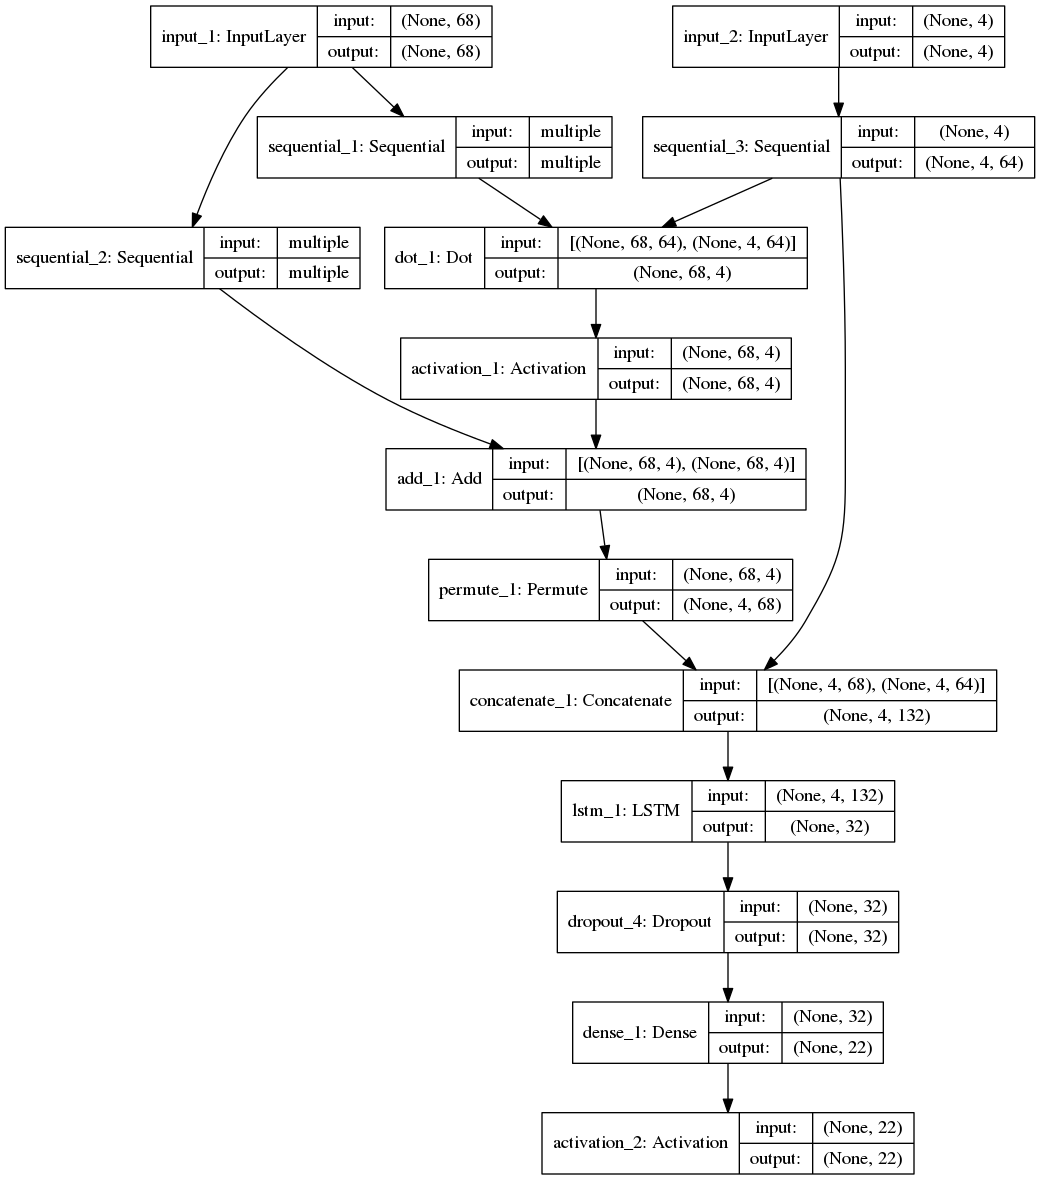
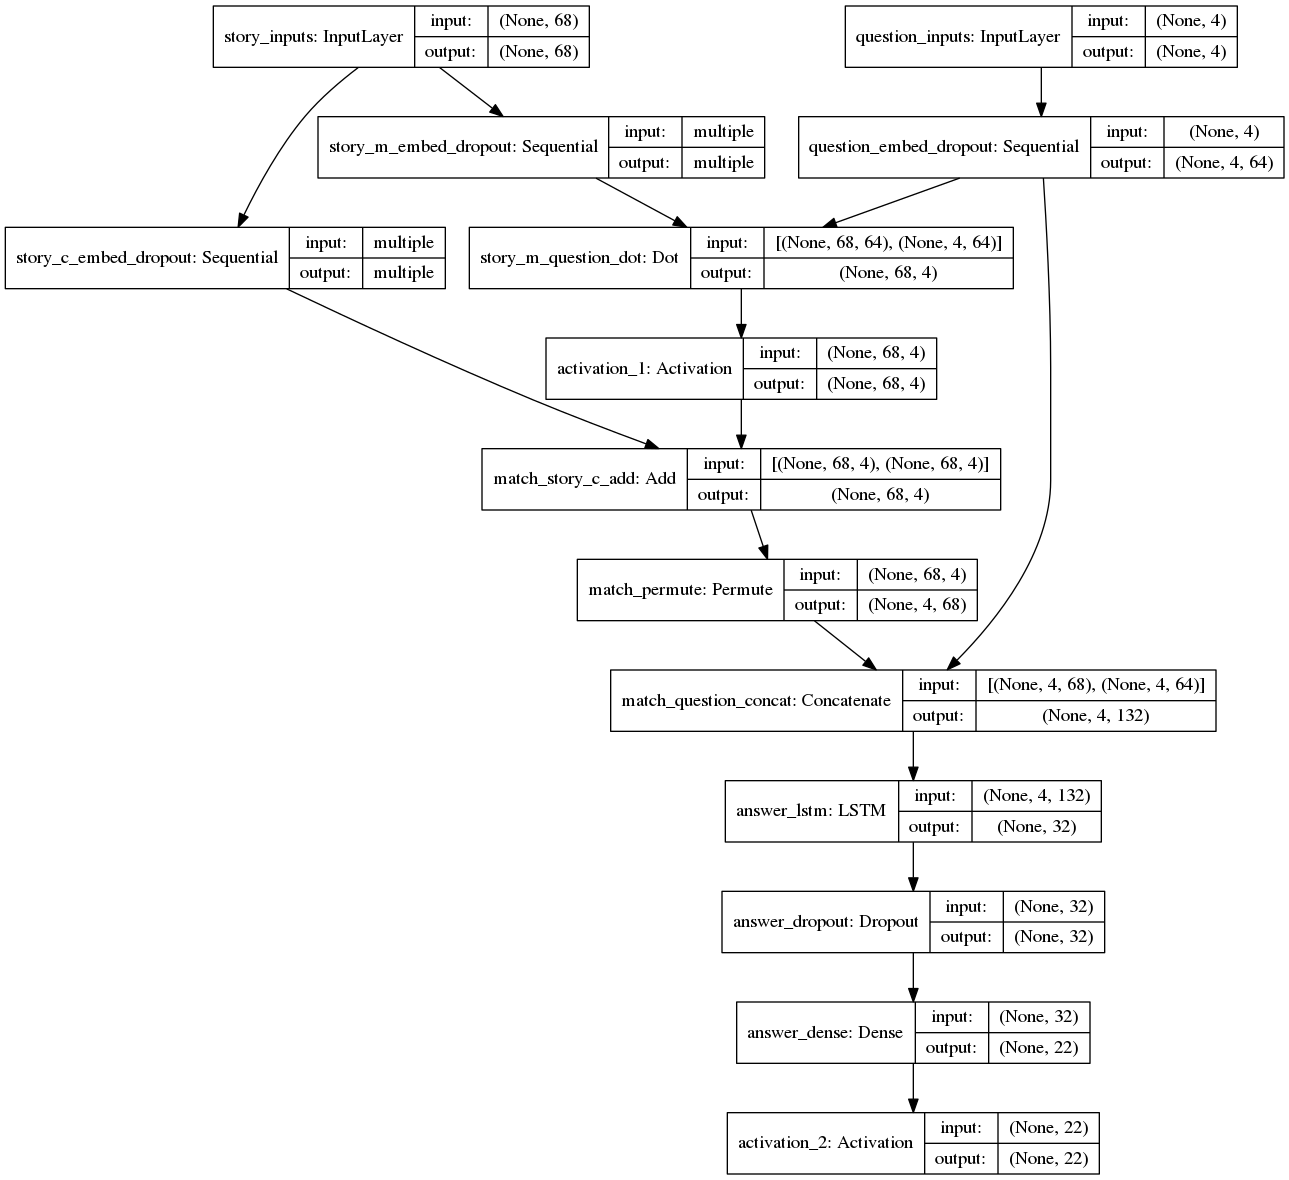
named model layers

diff --git a/babi_memnn.py b/babi_memnn.py
@@ -152,26 +152,26 @@ print('-')
 print('Compiling...')
 
 # placeholders
-input_sequence = Input((story_maxlen,))
-question = Input((query_maxlen,))
+input_sequence = Input((story_maxlen,), name='story_inputs')
+question = Input((query_maxlen,), name='question_inputs')
 
 # encoders
 # embed the input sequence into a sequence of vectors
-input_encoder_m = Sequential()
+input_encoder_m = Sequential(name='story_m_embed_dropout')
 input_encoder_m.add(Embedding(input_dim=vocab_size,
                               output_dim=64))
 input_encoder_m.add(Dropout(0.3))
 # output: (samples, story_maxlen, embedding_dim)
 
 # embed the input into a sequence of vectors of size query_maxlen
-input_encoder_c = Sequential()
+input_encoder_c = Sequential(name='story_c_embed_dropout')
 input_encoder_c.add(Embedding(input_dim=vocab_size,
                               output_dim=query_maxlen))
 input_encoder_c.add(Dropout(0.3))
 # output: (samples, story_maxlen, query_maxlen)
 
 # embed the question into a sequence of vectors
-question_encoder = Sequential()
+question_encoder = Sequential(name='question_embed_dropout')
 question_encoder.add(Embedding(input_dim=vocab_size,
                                output_dim=64,
                                input_length=query_maxlen))
@@ -187,23 +187,23 @@ question_encoded = question_encoder(question)
 # compute a 'match' between the first input vector sequence
 # and the question vector sequence
 # shape: `(samples, story_maxlen, query_maxlen)`
-match = dot([input_encoded_m, question_encoded], axes=(2, 2))
+match = dot([input_encoded_m, question_encoded], axes=(2, 2), name='story_m_question_dot')
 match = Activation('softmax')(match)
 
 # add the match matrix with the second input vector sequence
-response = add([match, input_encoded_c])  # (samples, story_maxlen, query_maxlen)
-response = Permute((2, 1))(response)  # (samples, query_maxlen, story_maxlen)
+response = add([match, input_encoded_c], name='match_story_c_add')  # (samples, story_maxlen, query_maxlen)
+response = Permute((2, 1), name='match_permute')(response)  # (samples, query_maxlen, story_maxlen)
 
 # concatenate the match matrix with the question vector sequence
-answer = concatenate([response, question_encoded])
+answer = concatenate([response, question_encoded], name='match_question_concat')
 
 # the original paper uses a matrix multiplication for this reduction step.
 # we choose to use a RNN instead.
-answer = LSTM(32)(answer)  # (samples, 32)
+answer = LSTM(32, name='answer_lstm')(answer)  # (samples, 32)
 
 # one regularization layer -- more would probably be needed.
-answer = Dropout(0.3)(answer)
-answer = Dense(vocab_size)(answer)  # (samples, vocab_size)
+answer = Dropout(0.3, name='answer_dropout')(answer)
+answer = Dense(vocab_size, name='answer_dense')(answer)  # (samples, vocab_size)
 # we output a probability distribution over the vocabulary
 answer = Activation('softmax')(answer)
 
